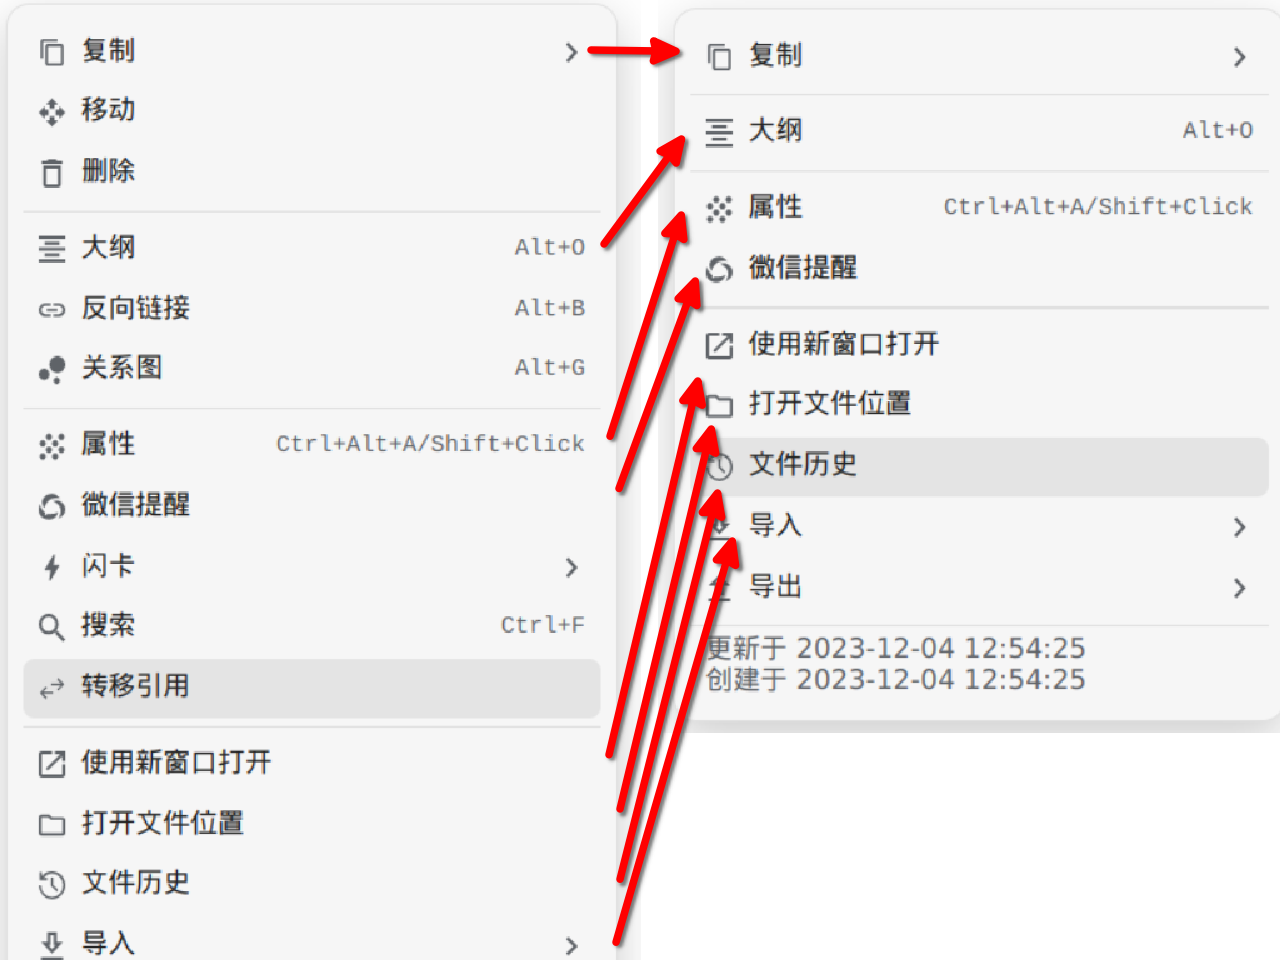
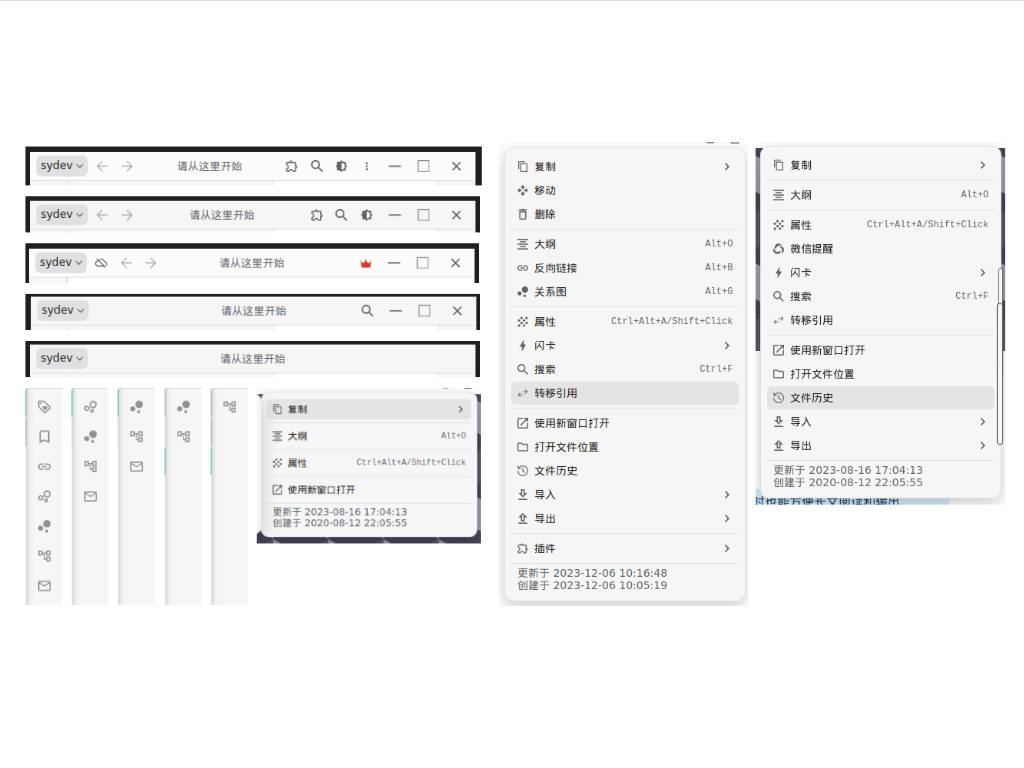
add i18n add more btn clean up etc

diff --git a/src/index.ts b/src/index.ts
@@ -36,6 +36,10 @@ export default class siyuan_rmv_btn extends Plugin {
         }
     }
 
+    //new
+    
+    //new
+
     async onLayoutReady() {
 
         //topbars
@@ -53,17 +57,6 @@ export default class siyuan_rmv_btn extends Plugin {
             document.head.appendChild(styleElement);
         });
 
-        //mobile
-        ForUnwantedTopBarIcons.forEach(elementType => {
-            const styleElement = document.createElement('style');
-            styleElement.textContent = `
-            .toolbar__icon[data-type="sidebar-${elementType}-tab"] {
-                display: none;
-              }
-            `;
-
-            document.head.appendChild(styleElement);
-        });
 
 
         //sidebars
@@ -178,6 +171,9 @@ export default class siyuan_rmv_btn extends Plugin {
         unwantedLabels = this.convertStringToArray(this.data[unwantedItem].unwantedItems);
         // console.log("pla-ce1:");//DBG
         // console.log(unwantedLabels);//DBG
+
+
+        //TODO use MutationObserver instead of DOMNodeInserted
         targetNode.addEventListener('DOMNodeInserted', function (e) {
             const buttons = Array.from(targetNode.getElementsByTagName('button'));
 
@@ -194,6 +190,7 @@ export default class siyuan_rmv_btn extends Plugin {
             });
 
         }, false);
+
     }
 
 

diff --git a/README.md b/README.md
@@ -20,6 +20,7 @@ Forum / thread (Chinese)：https://ld246.com/article/1701669406727
 # TODO
  - i18n    
  - friendly interface   
+ - use `MutationObserver` instead of `DOMNodeInserted`
 
  # Credits   
 https://github.com/siyuan-note/siyuan     

diff --git a/README_zh_CN.md b/README_zh_CN.md
@@ -26,6 +26,7 @@ repo/源码：https://github.com/zxkmm/siyuan_rmv_btn
 # TODO
  - i18n   
  - friendly interface
+ - use `MutationObserver` instead of `DOMNodeInserted`
 
 # 鸣谢
 https://github.com/siyuan-note/siyuan   

diff --git a/CHANGELOG.md b/CHANGELOG.md
@@ -12,3 +12,8 @@ now can remove almost all the buttons
 ## 0.1.3 2023.12.04
  - add chinese support   
  - fix for mobile doesn't work   
+
+ ## 0.1.4 2023.12.06
+  - support more buttons
+  - i18n fix
+  - clean up
